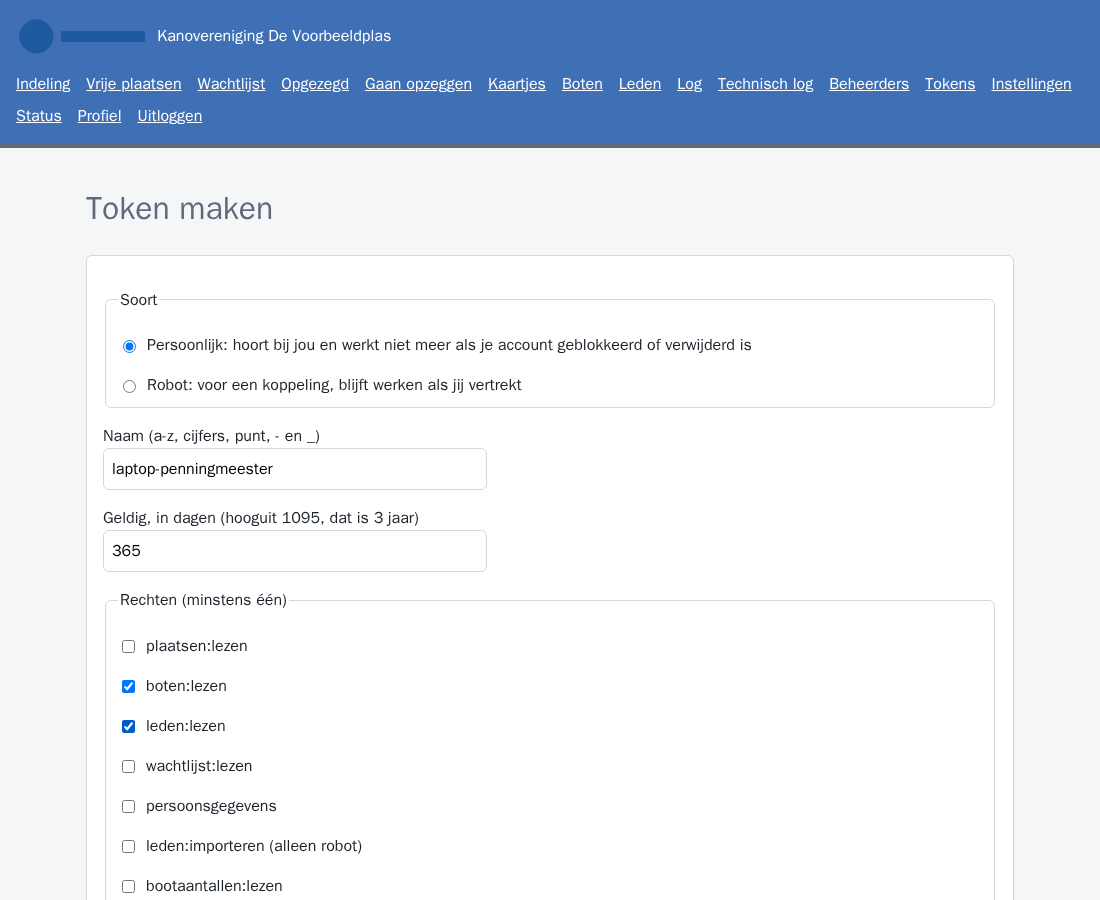
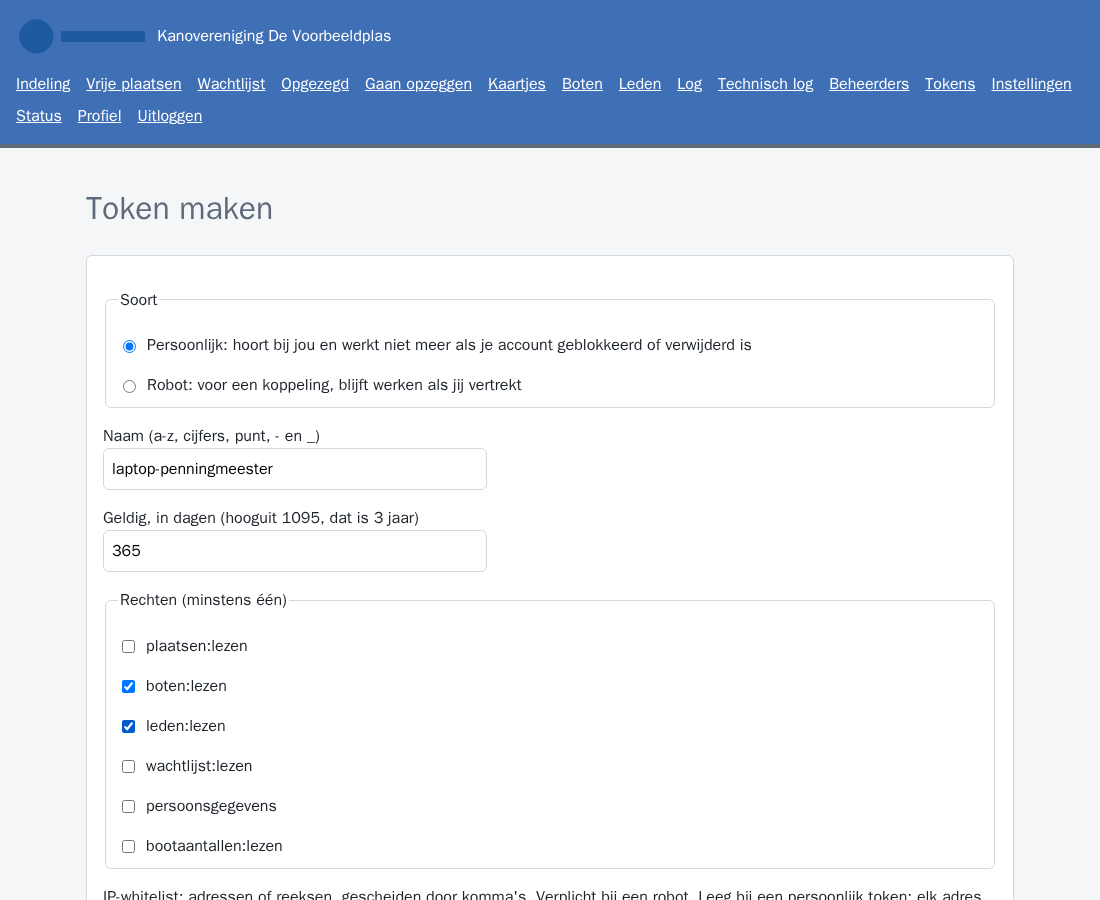
leden:importeren alleen via de CLI, niet via de tokenschermen (issue #52)
De domeinlaag weigert het recht bij maken via het web; bij wijzigen via het web blijft het
staan zoals het was. Formulieren tonen het recht niet. Rechten vergelijken als verzameling,
racetest op rechten wijzigen tegen intrekken, controle op docker compose config voor
API_EXTERN_BRONNEN in draai.sh, zin over een load balancer in api-van-buiten.md, handleiding
en twee schermafbeeldingen bijgewerkt.

Review: Sentinel, akkoord; Aegis, akkoord

Changed region(s): [[0.0927, 0.9333, 0.8964, 1.0]]

diff --git a/app/web/templates/token_nieuw.html b/app/web/templates/token_nieuw.html
@@ -17,7 +17,7 @@
     <fieldset>
       <legend>Rechten (minstens één)</legend>
       {% for r in rechten %}
-      <label class="keuze"><input type="checkbox" name="recht" value="{{ r }}"{% if r in invoer.rechten %} checked{% endif %}> {{ r }}{% if r == 'leden:importeren' %} (alleen robot){% endif %}</label>
+      <label class="keuze"><input type="checkbox" name="recht" value="{{ r }}"{% if r in invoer.rechten %} checked{% endif %}> {{ r }}</label>
       {% endfor %}
     </fieldset>
     <label for="whitelist">IP-whitelist: adressen of reeksen, gescheiden door komma's. Verplicht bij een robot. Leeg bij een persoonlijk token: elk adres dat de installatie doorlaat.</label>

diff --git a/app/web/templates/tokens.html b/app/web/templates/tokens.html
@@ -56,6 +56,7 @@
         {% for r in rechten %}
         <label class="keuze"><input type="checkbox" name="recht" value="{{ r }}"{% if r in t.rechten %} checked{% endif %}> {{ r }}</label>
         {% endfor %}
+        {% if 'leden:importeren' in t.rechten %}<p>Dit token heeft ook het recht leden:importeren. Dat blijft staan; het is alleen met de CLI te geven of af te nemen.</p>{% endif %}
       </fieldset>
       <button type="submit" class="knop" aria-label="Rechten opslaan: {{ t.naam }}">Rechten opslaan</button>
     </form>

diff --git a/tests/unit/test_persoonlijke_tokens.py b/tests/unit/test_persoonlijke_tokens.py
@@ -13,7 +13,7 @@ from sqlalchemy.exc import IntegrityError, ProgrammingError
 from app.domein import CLI, Actor, Regelfout, beheerders, tokens
 from app.models import Logregel, Token, db
 from tests.unit.conftest import API, EIGENAAR
-from tests.unit.hulp import beheerder_met_wachtwoord
+from tests.unit.hulp import beheerder_met_wachtwoord, race
 from tests.unit.test_tokens import KOPPEL, app_uit_omgeving, bearer
 from tests.unit.test_web import inloggen
 
@@ -84,13 +84,49 @@ def test_persoonlijk_token_hooguit_3_jaar(app, twee):
 
 
 def test_persoonlijk_token_zonder_leden_importeren(app, twee):
-    """BLB-030 criterium 4: weigeren; een robottoken mag het recht wel krijgen."""
+    """BLB-030 criterium 4: weigeren. Een robottoken krijgt het recht alleen met de CLI (#52)."""
     anna, _, _ = twee
     with pytest.raises(Regelfout, match="alleen bij een robottoken"):
         persoonlijk(anna, rechten=("boten:lezen", "leden:importeren"))
+    with pytest.raises(Regelfout, match="alleen met de CLI"):
+        robot(anna, rechten=("leden:importeren",))
     assert db.session.scalar(select(Token)) is None
-    robot(anna, rechten=("leden:importeren",))
+    tokens.robot_maken("koppeling", ["leden:importeren"], [], None, CLI)
     assert db.session.scalar(select(Token.soort)) == "robot"
+
+
+def test_web_geeft_leden_importeren_niet_en_neemt_het_niet_af(app, twee):
+    """#52: het web voegt het CLI-recht niet toe; een token met het recht uit de CLI houdt het.
+    Ongewijzigd opslaan in een andere volgorde geeft geen logregel."""
+    anna, _, _ = twee
+    robot(anna, "zonder")
+    tokens.robot_maken("met", ["leden:importeren", "bootaantallen:lezen"], [], None, CLI)
+    zonder, met = db.session.scalars(select(Token).order_by(Token.naam.desc())).all()
+    with pytest.raises(Regelfout, match="alleen met de CLI"):
+        tokens.rechten_wijzigen(zonder.id, ["boten:lezen", "leden:importeren"], Actor.van(anna))
+    tokens.rechten_wijzigen(met.id, ["bootaantallen:lezen"], Actor.van(anna))  # zoals het formulier
+    assert not logregels("token.rechten_gewijzigd")
+    tokens.rechten_wijzigen(met.id, ["leden:lezen"], Actor.van(anna))
+    db.session.expire_all()
+    assert db.session.get(Token, zonder.id).rechten == ["boten:lezen"]
+    assert db.session.get(Token, met.id).rechten == ["leden:lezen", "leden:importeren"]
+    tokens.rechten_wijzigen(met.id, ["boten:lezen"], CLI)  # de CLI kan het wel afnemen
+    db.session.expire_all()
+    assert db.session.get(Token, met.id).rechten == ["boten:lezen"]
+
+
+def test_rechten_wijzigen_wacht_op_intrekken(app, twee):
+    """FOR UPDATE in _actief: wie de rechten wijzigt terwijl een ander het token intrekt, wacht
+    en krijgt daarna een fout; het ingetrokken token krijgt geen nieuwe rechten."""
+    anna, _, _ = twee
+    persoonlijk(anna)
+    t = db.session.scalar(select(Token))
+    fouten = race(app, ["SELECT id FROM token WHERE id = :t FOR UPDATE",
+                        "UPDATE token SET ingetrokken_op = now() WHERE id = :t"],
+                  {"t": t.id}, lambda: tokens.rechten_wijzigen(t.id, ["leden:lezen"],
+                                                               Actor.van(anna)))
+    assert fouten == ["Er is geen actief token met dit nummer."]
+    assert db.session.get(Token, t.id).rechten == ["boten:lezen"]
 
 
 def test_persoonlijk_token_alleen_door_een_beheerder(app):
@@ -207,7 +243,7 @@ def test_rechten_gelden_vanaf_de_volgende_aanroep_met_logregel(app, api, twee):
 
 @pytest.mark.parametrize("rechten,melding", [
     ([], "minstens één recht"), (["leden:schrijven"], "Onbekend recht"),
-    (["leden:importeren"], "alleen bij een robottoken")])
+    (["leden:importeren"], "alleen met de CLI")])
 def test_ongeldige_rechten_wijzigen_niets(app, twee, rechten, melding):
     anna, _, _ = twee
     persoonlijk(anna)
@@ -285,6 +321,15 @@ def test_nieuw_token_geweigerd_houdt_de_invoer(app, scherm, data, melding):
     r = scherm.post("/tokens/nieuw", data=invoer)
     assert r.status_code == 200 and melding in r.text and 'value="anna-laptop"' in r.text
     assert db.session.scalar(select(Token)) is None
+
+
+def test_formulieren_tonen_leden_importeren_niet(app, scherm):
+    """#52: niet te kiezen bij maken en wijzigen; bij een token dat het heeft een uitleg."""
+    assert 'value="leden:importeren"' not in scherm.get("/tokens/nieuw").text
+    tokens.robot_maken("koppeling", ["leden:importeren"], [], None, CLI)
+    html = scherm.get("/tokens").text
+    assert 'value="leden:importeren"' not in html and 'value="boten:lezen"' in html
+    assert "alleen met de CLI te geven of af te nemen" in html
 
 
 def test_formulier_vult_koppelnet_voor(app, scherm):

diff --git a/app/domein/tokens.py b/app/domein/tokens.py
@@ -19,6 +19,8 @@ from app.models import Beheerder, Token, db
 # Vaste lijst in code (ADR-005, ADR-009).
 RECHTEN = ("plaatsen:lezen", "boten:lezen", "leden:lezen", "wachtlijst:lezen",
            "persoonsgegevens", "leden:importeren", "bootaantallen:lezen")
+CLI_RECHT = "leden:importeren"  # alleen met de CLI te geven (besluit stakeholder 2026-11-03, #52)
+WEBRECHTEN = tuple(r for r in RECHTEN if r != CLI_RECHT)
 MAX_DAGEN = 3 * 365  # hooguit 3 jaar (besluit stakeholder, vraag 1)
 STANDAARD_DAGEN = 365
 NAAM = re.compile(r"[a-z0-9._-]{2,50}")
@@ -83,6 +85,8 @@ def maken(soort, naam, rechten, whitelist, dagen, actor):
     if not NAAM.fullmatch(naam):
         raise Regelfout("Naam: 2 tot 50 tekens, alleen a-z, cijfers, punt, - en _.")
     rechten = _rechten(rechten, soort)
+    if actor.soort == "beheerder" and CLI_RECHT in rechten:
+        raise Regelfout(f"Het recht {CLI_RECHT} geef je alleen met de CLI (flask token robot).")
     netten = whitelist_lezen(whitelist)
     if soort == "robot" and not netten:
         raise Regelfout("Een robottoken heeft een whitelist nodig.")
@@ -136,13 +140,19 @@ def rechten_wijzigen(token_id, rechten, actor):
     if token is None:
         db.session.rollback()
         raise Regelfout("Er is geen actief token met dit nummer.")
+    oud = list(token.rechten)
     try:
+        if actor.soort == "beheerder":
+            # De webinterface kan het CLI-recht niet geven of afnemen: het blijft zoals het was.
+            if CLI_RECHT in rechten and CLI_RECHT not in oud:
+                raise Regelfout(f"Het recht {CLI_RECHT} geef je alleen met de CLI "
+                                "(flask token robot).")
+            rechten = [r for r in rechten if r != CLI_RECHT] + [r for r in oud if r == CLI_RECHT]
         nieuw = _rechten(rechten, token.soort)
     except Regelfout:
         db.session.rollback()  # het slot niet vasthouden tot het einde van het verzoek
         raise
-    oud = list(token.rechten)
-    if nieuw != oud:
+    if set(nieuw) != set(oud):
         token.rechten = nieuw
         log.schrijf(actor, "token.rechten_gewijzigd", [f"token:{token.id}"],
                     {"naam": token.naam, "oud": oud, "nieuw": nieuw})

diff --git a/app/web/tokenschermen.py b/app/web/tokenschermen.py
@@ -10,11 +10,11 @@ from app.web import bp, inloggen_vereist, recent_ingelogd, uitvoeren
 @bp.get("/tokens")
 @inloggen_vereist
 def tokens_overzicht():
-    return render_template("tokens.html", tokens=tokens.alle(), rechten=tokens.RECHTEN)
+    return render_template("tokens.html", tokens=tokens.alle(), rechten=tokens.WEBRECHTEN)
 
 
 def _formulier(invoer):
-    return render_template("token_nieuw.html", invoer=invoer, rechten=tokens.RECHTEN,
+    return render_template("token_nieuw.html", invoer=invoer, rechten=tokens.WEBRECHTEN,
                            standaard=tokens.STANDAARD_DAGEN, max_dagen=tokens.MAX_DAGEN)
 
 

diff --git a/documentatie/gebruikers/handleiding.md b/documentatie/gebruikers/handleiding.md
@@ -242,7 +242,7 @@ Er zijn twee soorten tokens:
 
 1. Kies **Token maken** (`/tokens/nieuw`).
 2. Kies de soort, een naam (a-z, cijfers, punt, - en _) en hoeveel dagen het geldig is: standaard 365, hooguit 1095 (3 jaar).
-3. Vink minstens één recht aan. `leden:importeren` kan alleen bij een robottoken.
+3. Vink minstens één recht aan. `leden:importeren` staat er niet bij: dat recht geeft wie de installatie beheert met de CLI, aan het robottoken van de integratiecontainer.
 4. Vul de IP-whitelist in: adressen of reeksen, gescheiden door komma's. Het formulier vult het netwerk van de integratiecontainer voor. Een robottoken heeft altijd een whitelist; een persoonlijk token zonder whitelist werkt vanaf elk adres dat de installatie doorlaat.
 5. Kopieer de waarde die verschijnt. Hij is daarna niet meer te zien; ben je hem kwijt, maak dan een nieuw token en trek het oude in.
 
@@ -259,12 +259,12 @@ Een persoonlijk token werkt alleen als wie de installatie beheert de API van bui
 | `leden:lezen` | alle leden met naam, lidnummer en of het een oud-lid is |
 | `wachtlijst:lezen` | de wachtlijst per bootsoort met aanmelddatum |
 | `persoonsgegevens` | bij boten, leden en wachtlijst ook adres, telefoon en e-mail, en bij leden de datums van lidmaatschap en opzegging |
-| `leden:importeren` | de import van leden, alleen voor de integratiecontainer |
+| `leden:importeren` | de import van leden, alleen voor de integratiecontainer en alleen met de CLI te geven |
 | `bootaantallen:lezen` | het aantal boten per bootsoort per lid |
 
 ### Rechten wijzigen en intrekken
 
-Onder **Rechten wijzigen**, onder de lijst, klap je een token uit, pas je de vinkjes aan en kies je **Rechten opslaan**. De nieuwe rechten gelden vanaf de volgende aanroep.
+Onder **Rechten wijzigen**, onder de lijst, klap je een token uit, pas je de vinkjes aan en kies je **Rechten opslaan**. De nieuwe rechten gelden vanaf de volgende aanroep. Heeft een token `leden:importeren`, dan blijft dat recht staan; het is alleen met de CLI te geven of af te nemen.
 
 ![Het blok Rechten wijzigen met een uitgeklapt token en de vinkjes per recht.](afbeeldingen/token-rechten.png)
  **Intrekken** werkt direct: de volgende aanroep met dat token wordt geweigerd. Naam, whitelist en vervaldatum zijn niet te wijzigen; daarvoor maak je een nieuw token.

diff --git a/documentatie/beheer/api-van-buiten.md b/documentatie/beheer/api-van-buiten.md
@@ -30,6 +30,8 @@ Ontbreekt `API_EXTERN_BRONNEN` of is hij leeg, dan start compose met dit bestand
 
 Een aanroep van buiten gaat langs twee controles. Traefik laat alleen adressen uit `API_EXTERN_BRONNEN` door en geeft anders 403; zo'n weigering komt in geen log van de applicatie. Daarna toetst de applicatie de whitelist van het token, op het adres dat Traefik vaststelt. Een adres dat de client zelf in een kop als `X-Forwarded-For` meestuurt, telt niet. Een token buiten zijn whitelist krijgt 401, met een regel `api.geweigerd` in het technische log.
 
+Staat er een load balancer vóór Traefik, dan ziet Traefik het adres van de load balancer. Dan toetsen `externtoegang` en `iprem` dat adres, en niet dat van de client. Zet dan `ipStrategy.depth=1` op beide middlewares en vertrouw in Traefik alleen het adres van de load balancer, zoals bij `inlogrem` ([installatie](installatie.md)).
+
 Een persoonlijk token zonder whitelist werkt vanaf elk adres in `API_EXTERN_BRONNEN`. `0.0.0.0/0,::/0` opent de API voor elk adres; dan begrenst alleen de whitelist van het token. Kies dat alleen als elk token dat buiten gebruikt wordt een whitelist heeft.
 
 De gedeelde Traefik moet aan dezelfde eisen voldoen als bij de installatie, ook op `websecure`: geen `forwardedHeaders.trustedIPs` en `aliasHeadersStrategy=delete` ([installatie](installatie.md)). Anders kan een client zijn adres vervalsen.
